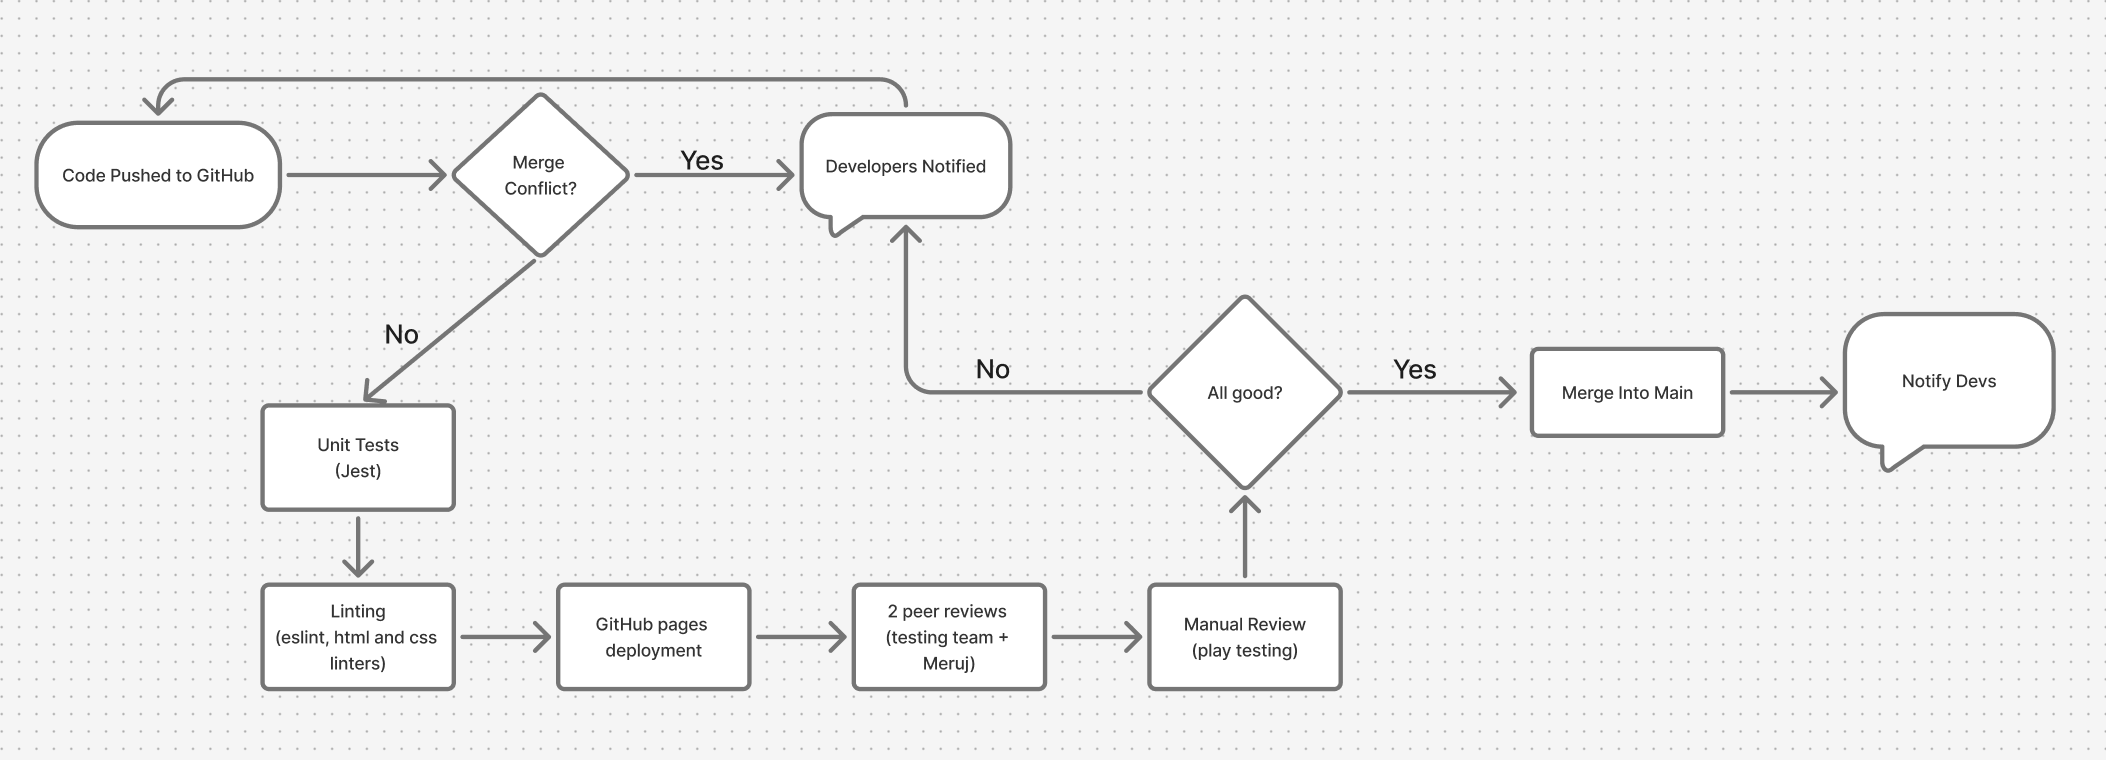
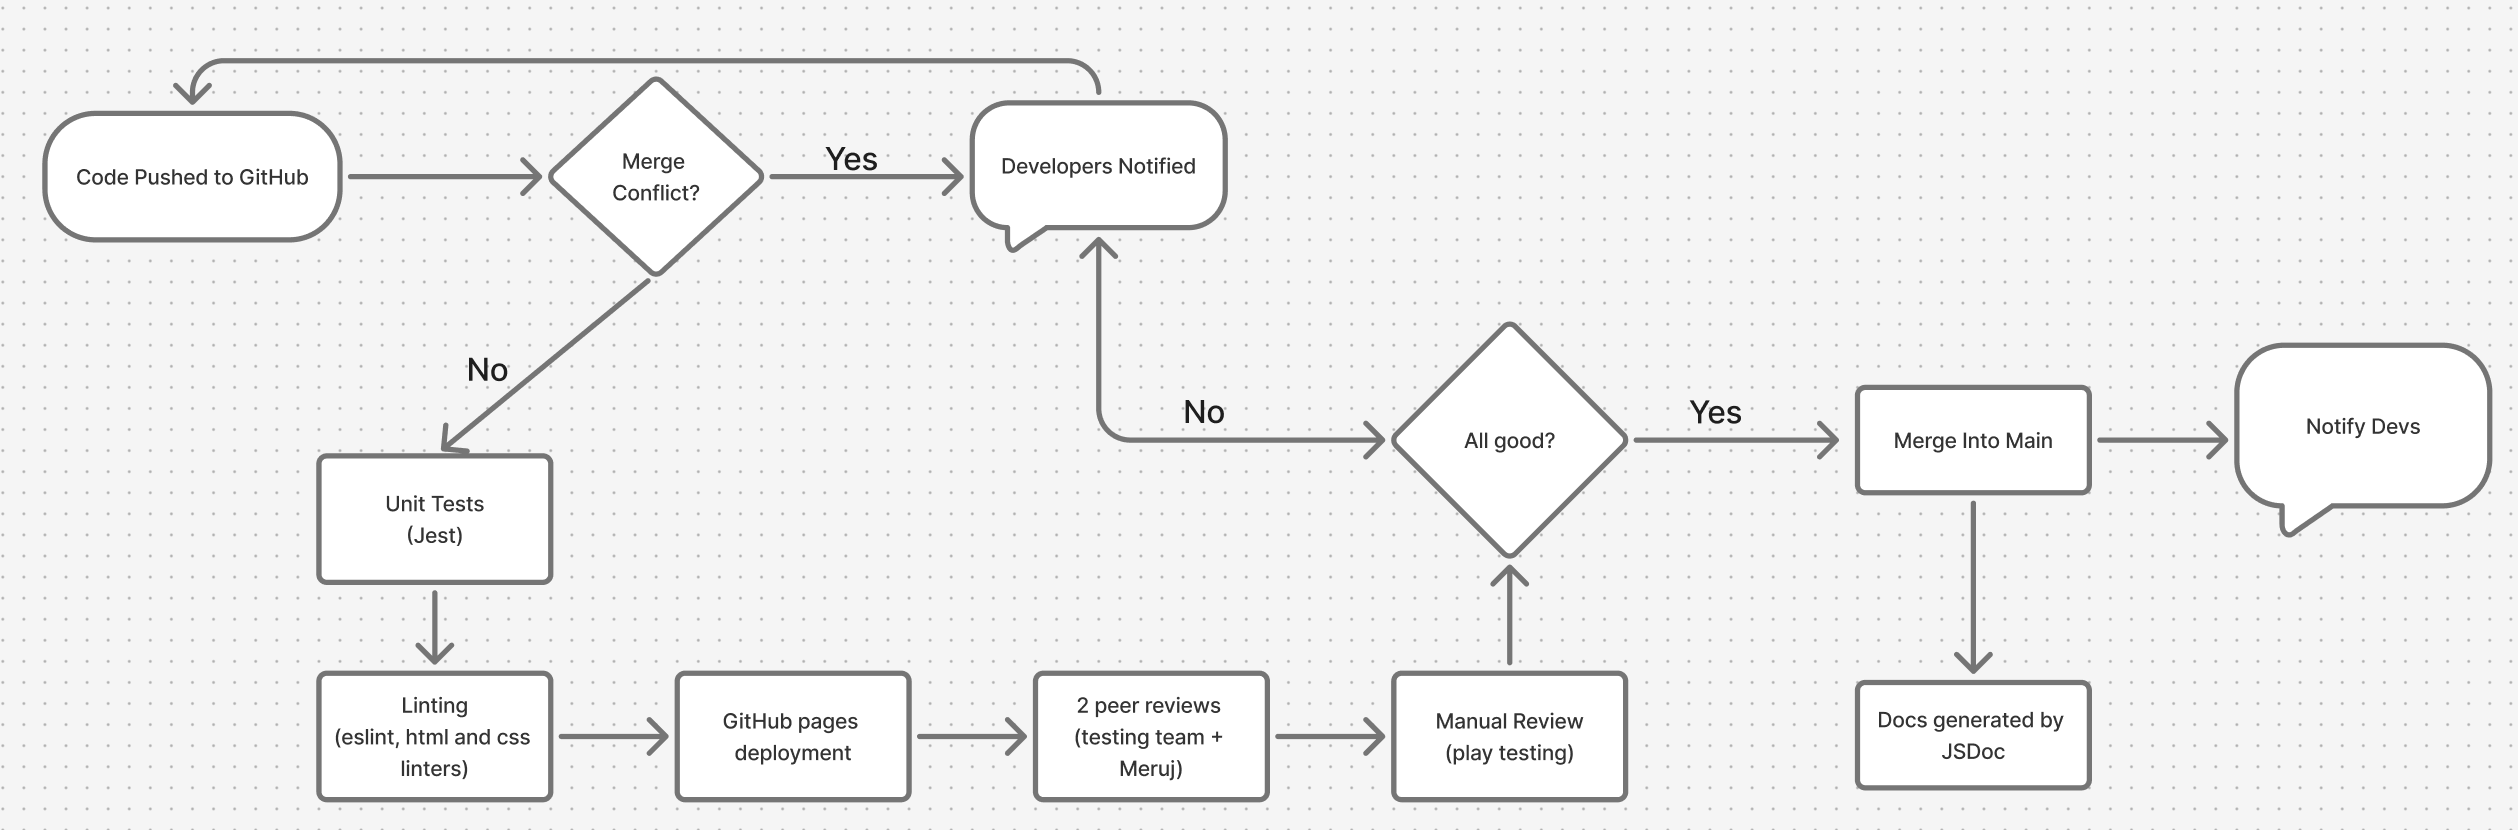
update & pages deploy

diff --git a/admin/specs/adrs/050625_CI_PIPELINE.md b/admin/specs/adrs/050625_CI_PIPELINE.md
@@ -6,6 +6,11 @@ We will use *Jest* for our testing framework since it is the tool taught in clas
 familiarity with the tool and it is likely to be one of the most simple and widely used since Prof. Powell
 is a very practical man.
 
+## Documentation:
+
+We will use **JSDoc** since it's the most commonly used one and the format is shared accross many languages
+so people will be used to it.
+
 ## Linting:
 
 #### HTML:
